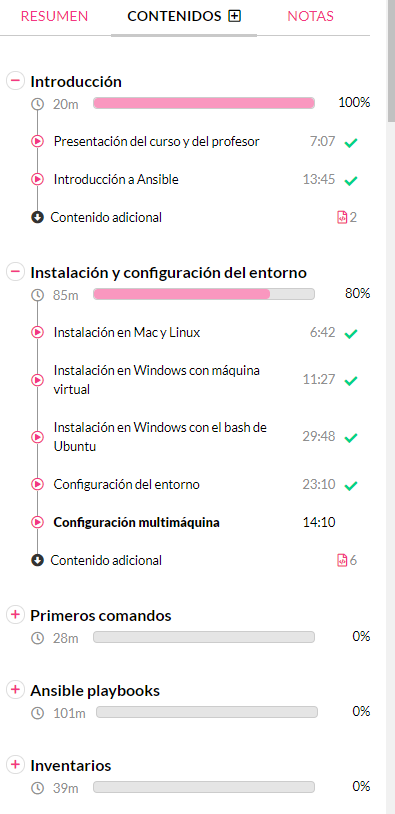
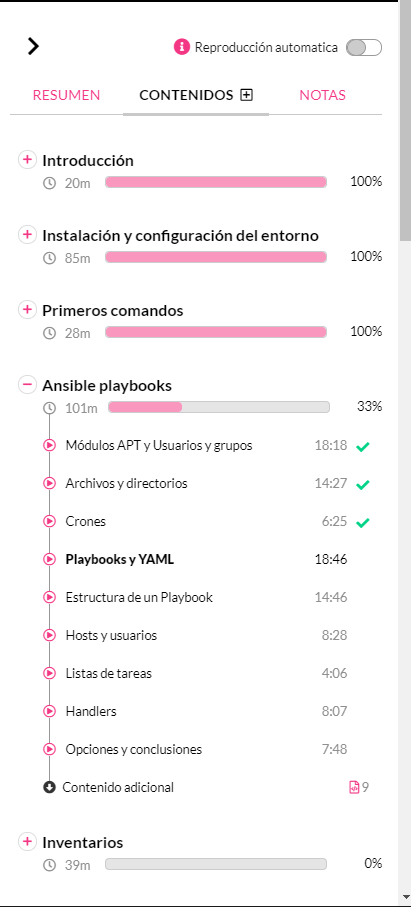
8ºDía Parte 2
Avance en el bloque.

diff --git a/README.md b/README.md
@@ -32,3 +32,8 @@
 
 	17/04/2020
 		-Estancado en un error desde hace dos dias.
+
+	18/04/2020
+		-Completado el bloque de instalacion y configuración de entorno.
+		-Completado el bloque primeros comandos.
+		-Comenzado bloque de Ansible playbocks.
